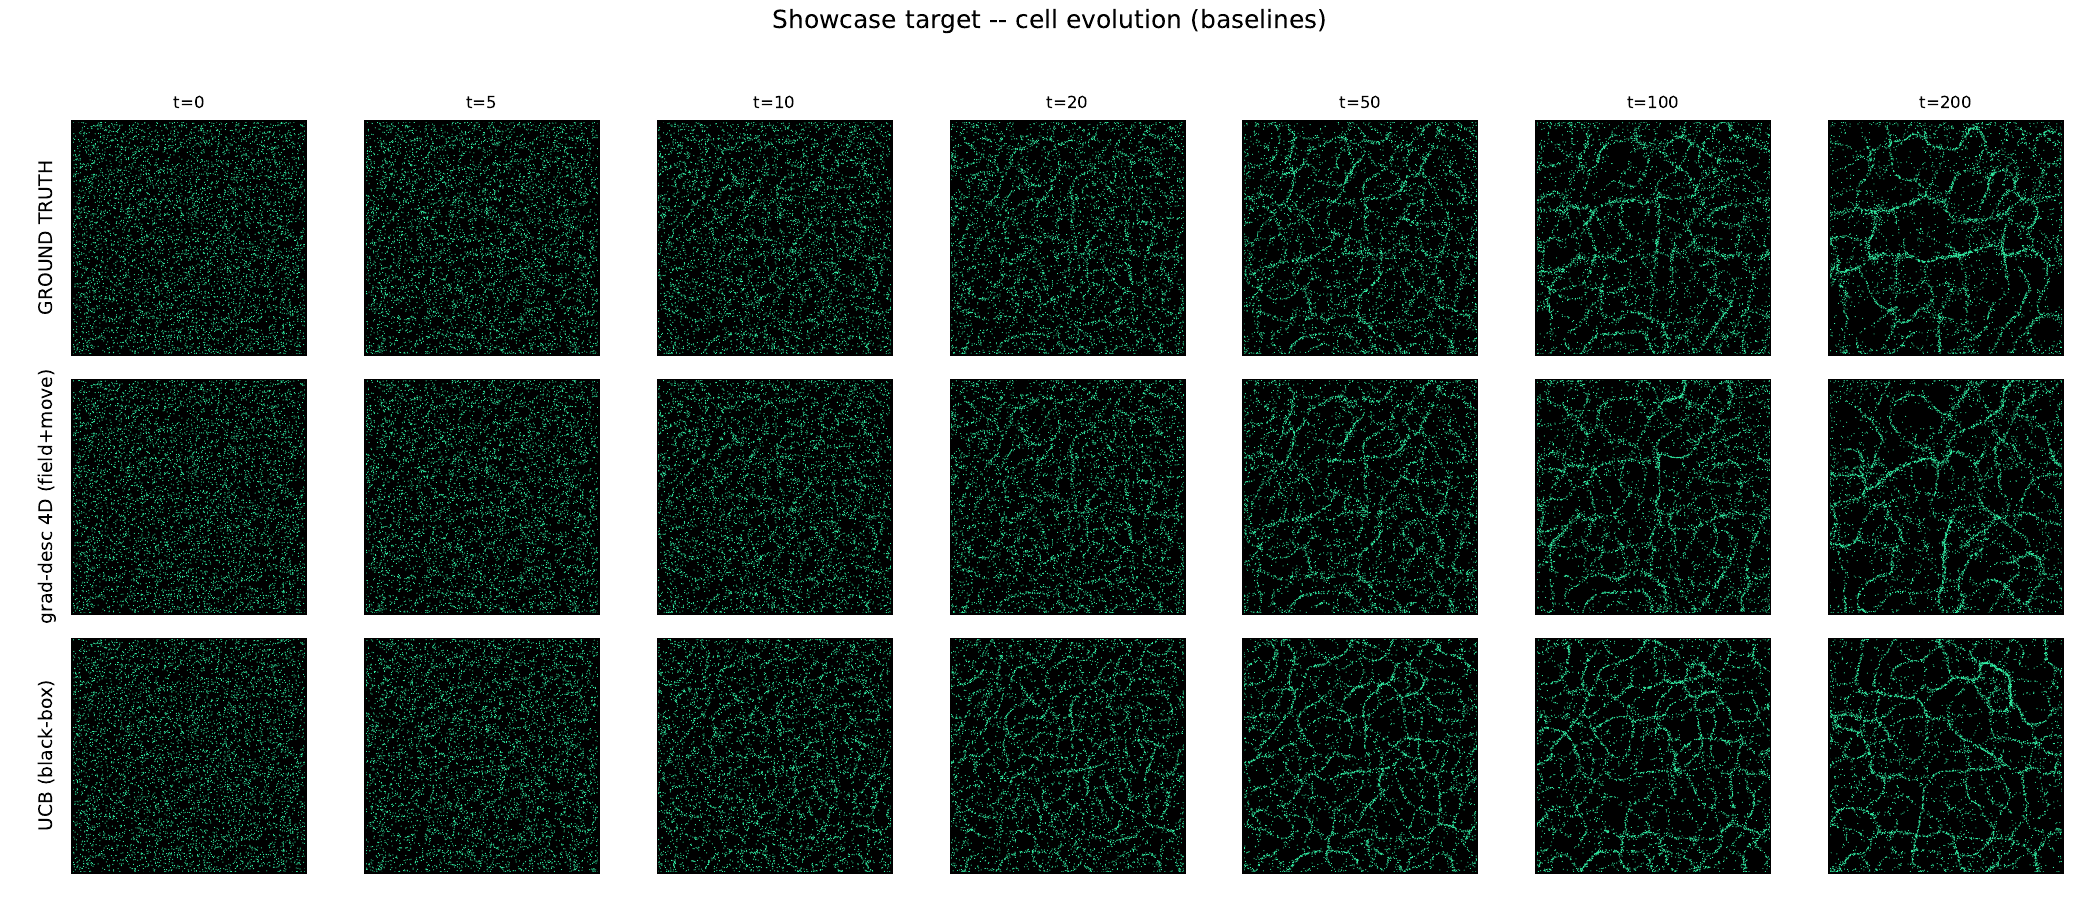
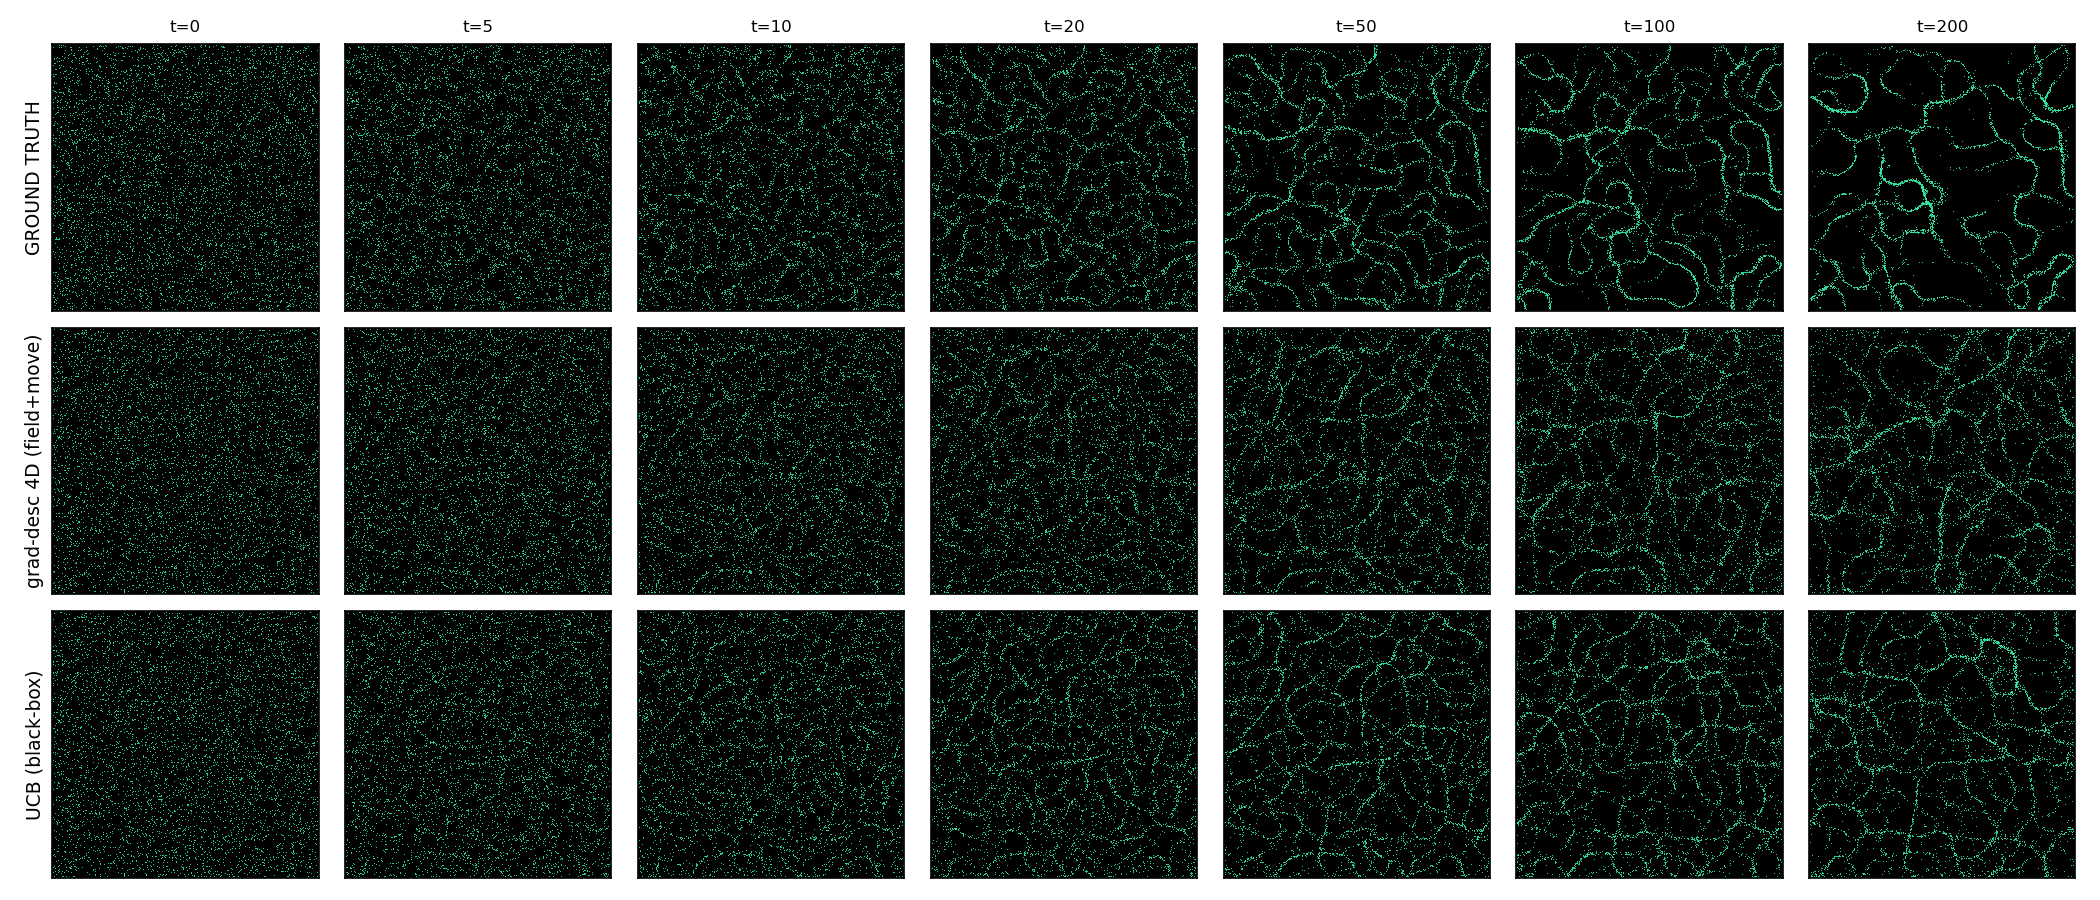
inverse: title-free Showcase montages + captions explaining rows/montages
Regenerate the 4 single-type showcase montages without the matplotlib suptitle
(kept the t= column headers and row labels), and add per-figure captions plus an
intro explaining the two axes (cells vs chemical field; best methods vs baselines)
and the shared layout (top row = ground truth, rows below = recoveries, columns = time).

diff --git a/docs/inverse.html b/docs/inverse.html
@@ -276,24 +276,45 @@ window.Quarto = {
 <p>The panels below reproduce every visual page of the report: the showcase single-type target (method comparison), three further single-type targets, and the two-type and four-type cases (cells coloured by type; the multi-channel field shown as a per-species colour composite). In every panel the <strong>top row is ground truth</strong> and the rows below are recoveries; columns are time.</p>
 <section id="showcase-single-type-target" class="level3">
 <h3 class="anchored" data-anchor-id="showcase-single-type-target">Showcase single-type target</h3>
+<p>The showcase target is shown four ways, along two axes: <strong>what is drawn</strong> — the <strong>cells/agents</strong>, or the <strong>chemical trail field</strong> they deposit and sense — and <strong>which inverse methods</strong> — the two <strong>best</strong> recoveries (8D gradient-descent) or the weaker <strong>baselines</strong> (4D gradient-descent and black-box search). In every montage the <strong>top row is the ground-truth simulation</strong>, the rows beneath are simulations run from the <strong>recovered</strong> parameters, and <strong>columns are time</strong> (<em>t</em> = 0 → 200).</p>
 <div class="quarto-figure quarto-figure-center">
 <figure class="figure">
-<p><a href="figures/fig_inverse_gal_00.png" class="lightbox" data-gallery="quarto-lightbox-gallery-2"><img src="figures/fig_inverse_gal_00.png" class="img-fluid quarto-figure quarto-figure-center figure-img"></a></p>
+<div class="quarto-figure quarto-figure-center">
+<figure class="figure">
+<p><a href="figures/fig_inverse_gal_00.png" class="lightbox" data-gallery="quarto-lightbox-gallery-2" title="Cells — best methods. Ground truth vs the two best recoveries (8D position-loss, 8D heading-loss); the recovered agent networks converge onto the target morphology."><img src="figures/fig_inverse_gal_00.png" class="img-fluid quarto-figure quarto-figure-center figure-img" alt="Cells — best methods. Ground truth vs the two best recoveries (8D position-loss, 8D heading-loss); the recovered agent networks converge onto the target morphology."></a></p>
+</figure>
+</div>
+<figcaption><strong>Cells — best methods.</strong> Ground truth vs the two best recoveries (8D position-loss, 8D heading-loss); the recovered agent networks converge onto the target morphology.</figcaption>
 </figure>
 </div>
 <div class="quarto-figure quarto-figure-center">
 <figure class="figure">
-<p><a href="figures/fig_inverse_gal_01.png" class="lightbox" data-gallery="quarto-lightbox-gallery-3"><img src="figures/fig_inverse_gal_01.png" class="img-fluid quarto-figure quarto-figure-center figure-img"></a></p>
+<div class="quarto-figure quarto-figure-center">
+<figure class="figure">
+<p><a href="figures/fig_inverse_gal_01.png" class="lightbox" data-gallery="quarto-lightbox-gallery-3" title="Chemical field — best methods. The same three runs, drawn as the deposited trail field instead of the agents."><img src="figures/fig_inverse_gal_01.png" class="img-fluid quarto-figure quarto-figure-center figure-img" alt="Chemical field — best methods. The same three runs, drawn as the deposited trail field instead of the agents."></a></p>
+</figure>
+</div>
+<figcaption><strong>Chemical field — best methods.</strong> The same three runs, drawn as the deposited trail field instead of the agents.</figcaption>
 </figure>
 </div>
 <div class="quarto-figure quarto-figure-center">
 <figure class="figure">
-<p><a href="figures/fig_inverse_gal_02.png" class="lightbox" data-gallery="quarto-lightbox-gallery-4"><img src="figures/fig_inverse_gal_02.png" class="img-fluid quarto-figure quarto-figure-center figure-img"></a></p>
+<div class="quarto-figure quarto-figure-center">
+<figure class="figure">
+<p><a href="figures/fig_inverse_gal_02.png" class="lightbox" data-gallery="quarto-lightbox-gallery-4" title="Cells — baselines. Ground truth vs the weaker recoveries (4D gradient-descent on field+move, and UCB black-box search)."><img src="figures/fig_inverse_gal_02.png" class="img-fluid quarto-figure quarto-figure-center figure-img" alt="Cells — baselines. Ground truth vs the weaker recoveries (4D gradient-descent on field+move, and UCB black-box search)."></a></p>
+</figure>
+</div>
+<figcaption><strong>Cells — baselines.</strong> Ground truth vs the weaker recoveries (4D gradient-descent on field+move, and UCB black-box search).</figcaption>
 </figure>
 </div>
 <div class="quarto-figure quarto-figure-center">
 <figure class="figure">
-<p><a href="figures/fig_inverse_gal_03.png" class="lightbox" data-gallery="quarto-lightbox-gallery-5"><img src="figures/fig_inverse_gal_03.png" class="img-fluid quarto-figure quarto-figure-center figure-img"></a></p>
+<div class="quarto-figure quarto-figure-center">
+<figure class="figure">
+<p><a href="figures/fig_inverse_gal_03.png" class="lightbox" data-gallery="quarto-lightbox-gallery-5" title="Chemical field — baselines. The baseline recoveries drawn as the trail field."><img src="figures/fig_inverse_gal_03.png" class="img-fluid quarto-figure quarto-figure-center figure-img" alt="Chemical field — baselines. The baseline recoveries drawn as the trail field."></a></p>
+</figure>
+</div>
+<figcaption><strong>Chemical field — baselines.</strong> The baseline recoveries drawn as the trail field.</figcaption>
 </figure>
 </div>
 </section>
